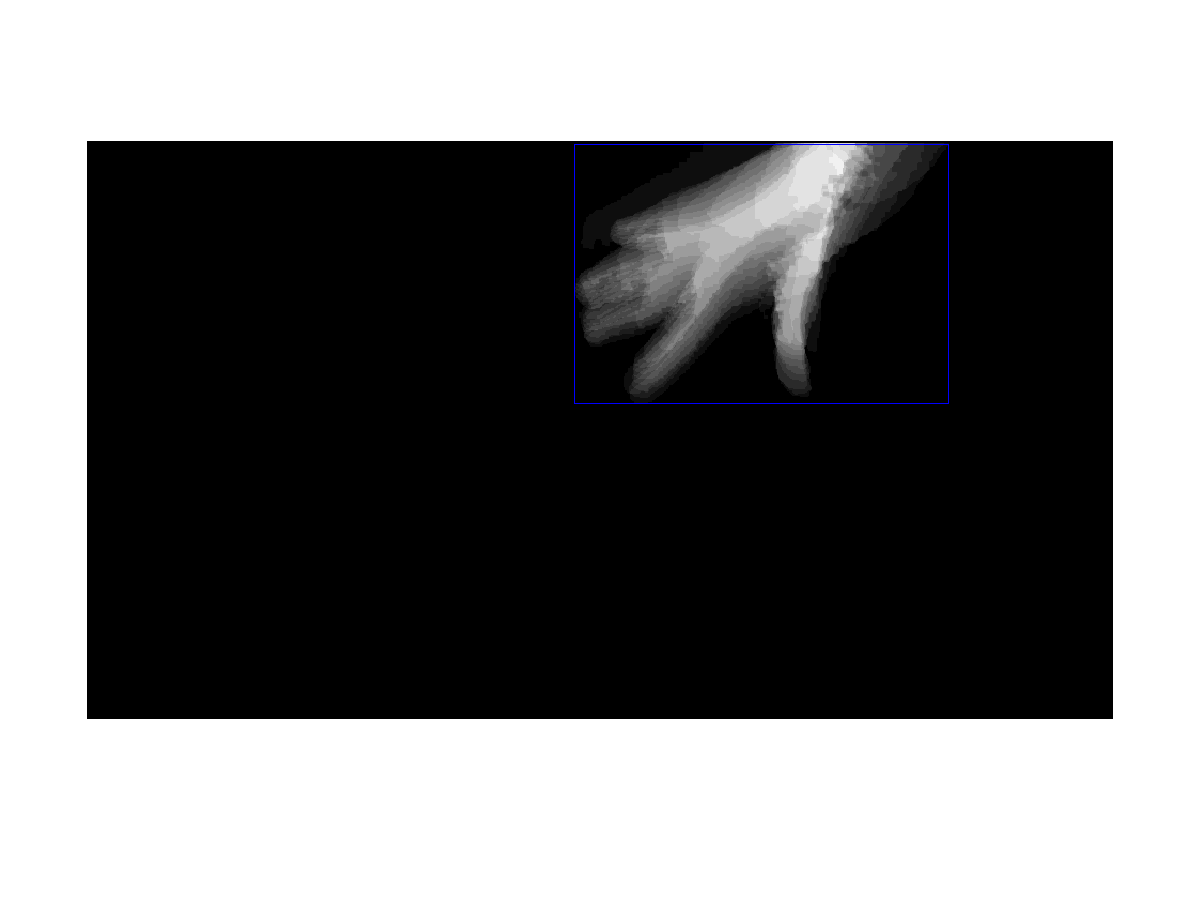
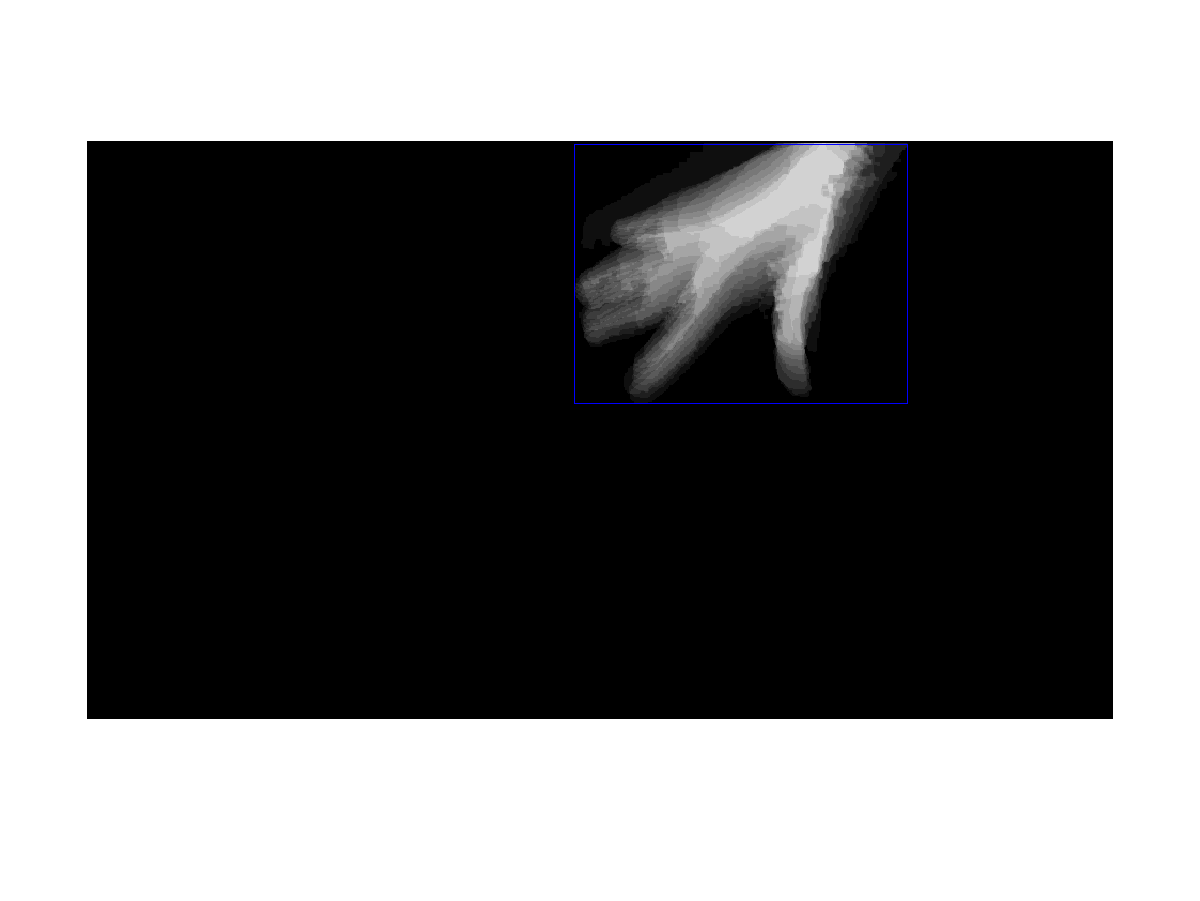
MHI Works we think

Changed region(s): [[0.6783, 0.1554, 0.8017, 0.2797]]

diff --git a/binariseSeq.m b/binariseSeq.m
@@ -35,8 +35,8 @@ function [binSeq] = binariseSeq(seq, backNum, path)
         diff = abs(fore-back);
         binIm = binariseIm(diff);
         binSeq(:,:,i) = binIm;
-        figure(num(1)+24)
-        imshow(binIm);
+        %figure(i+24)
+        %imshow(binIm);
     end
     
     

diff --git a/motionHistoryImage.m b/motionHistoryImage.m
@@ -1,7 +1,7 @@
 function [motionHistory] = motionHistoryImage(binaries)
 
 	num = size(binaries);
-	avg = double(binaries(:,:,1))
+	avg = double(binaries(:,:,1));
 
     total = num(3);
 

diff --git a/showAllBoundingBoxesScript.m b/showAllBoundingBoxesScript.m
@@ -7,5 +7,5 @@ seqs = listSeqs(path);
 dim = size(seqs);
 
 for i = 1:dim(1)
-    boundingBoxTest(seqs(i,:), i, 1, path);
+    boundingBoxTest(seqs(i,:), 1, 1, path);
 end
